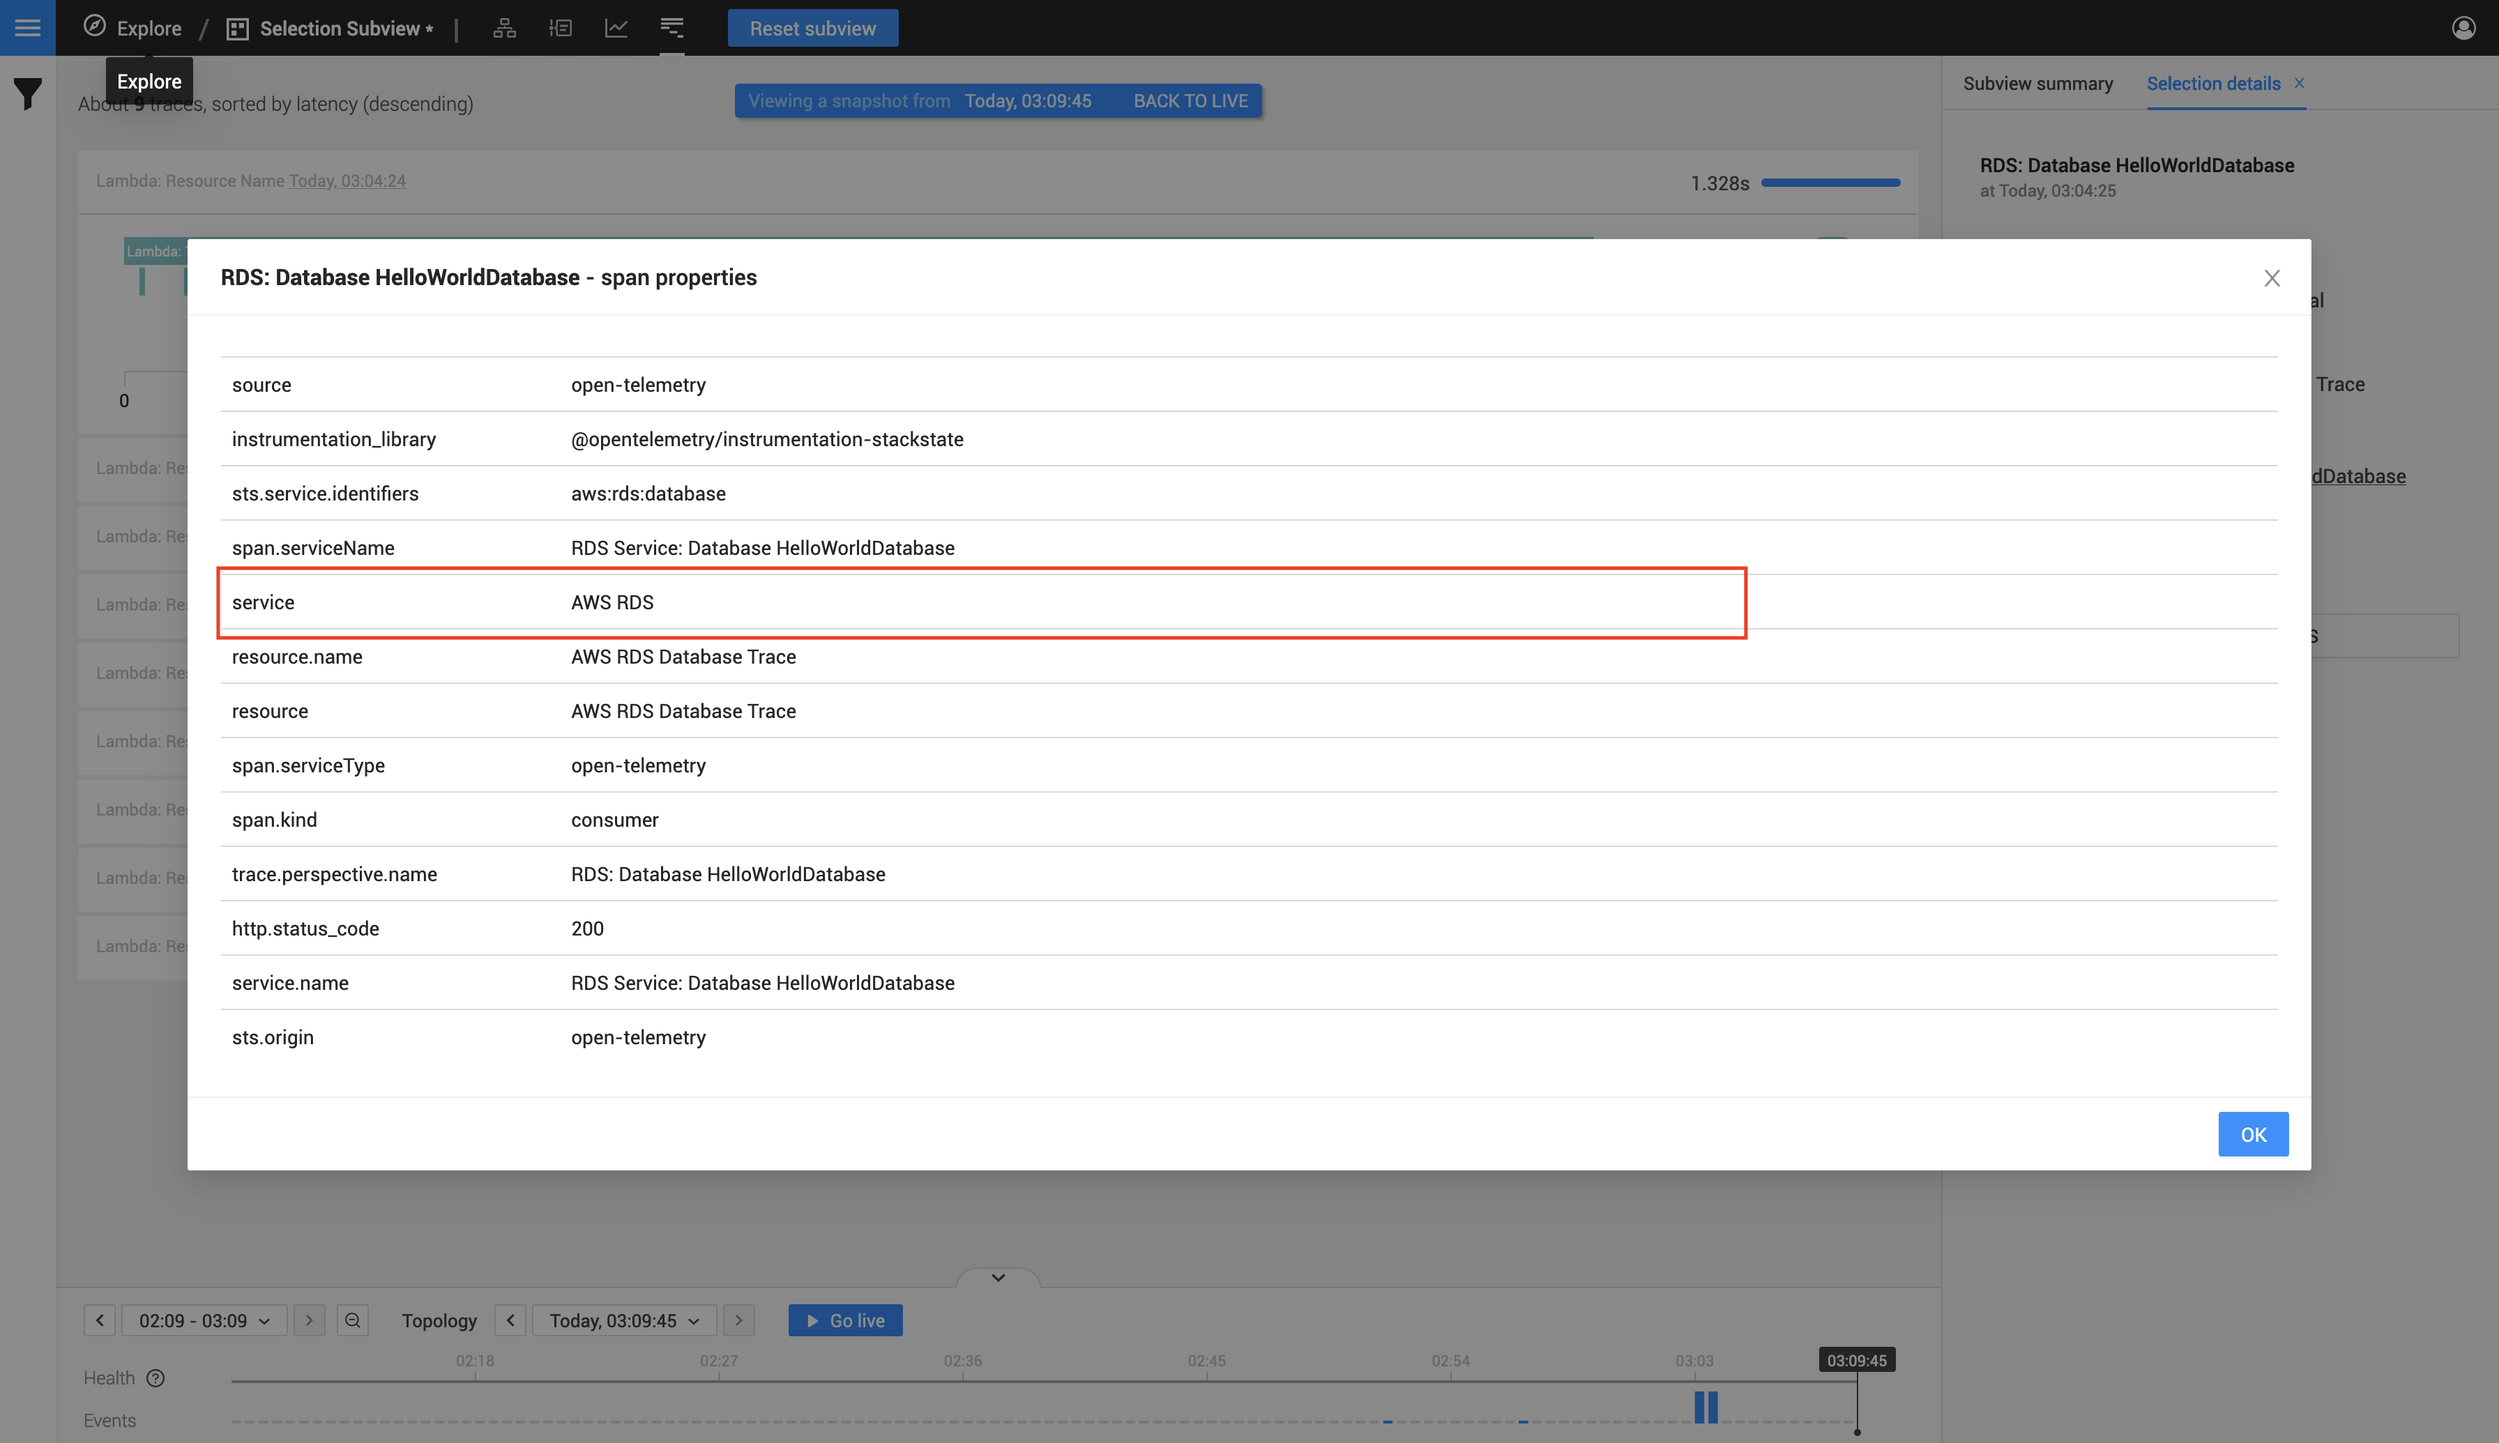
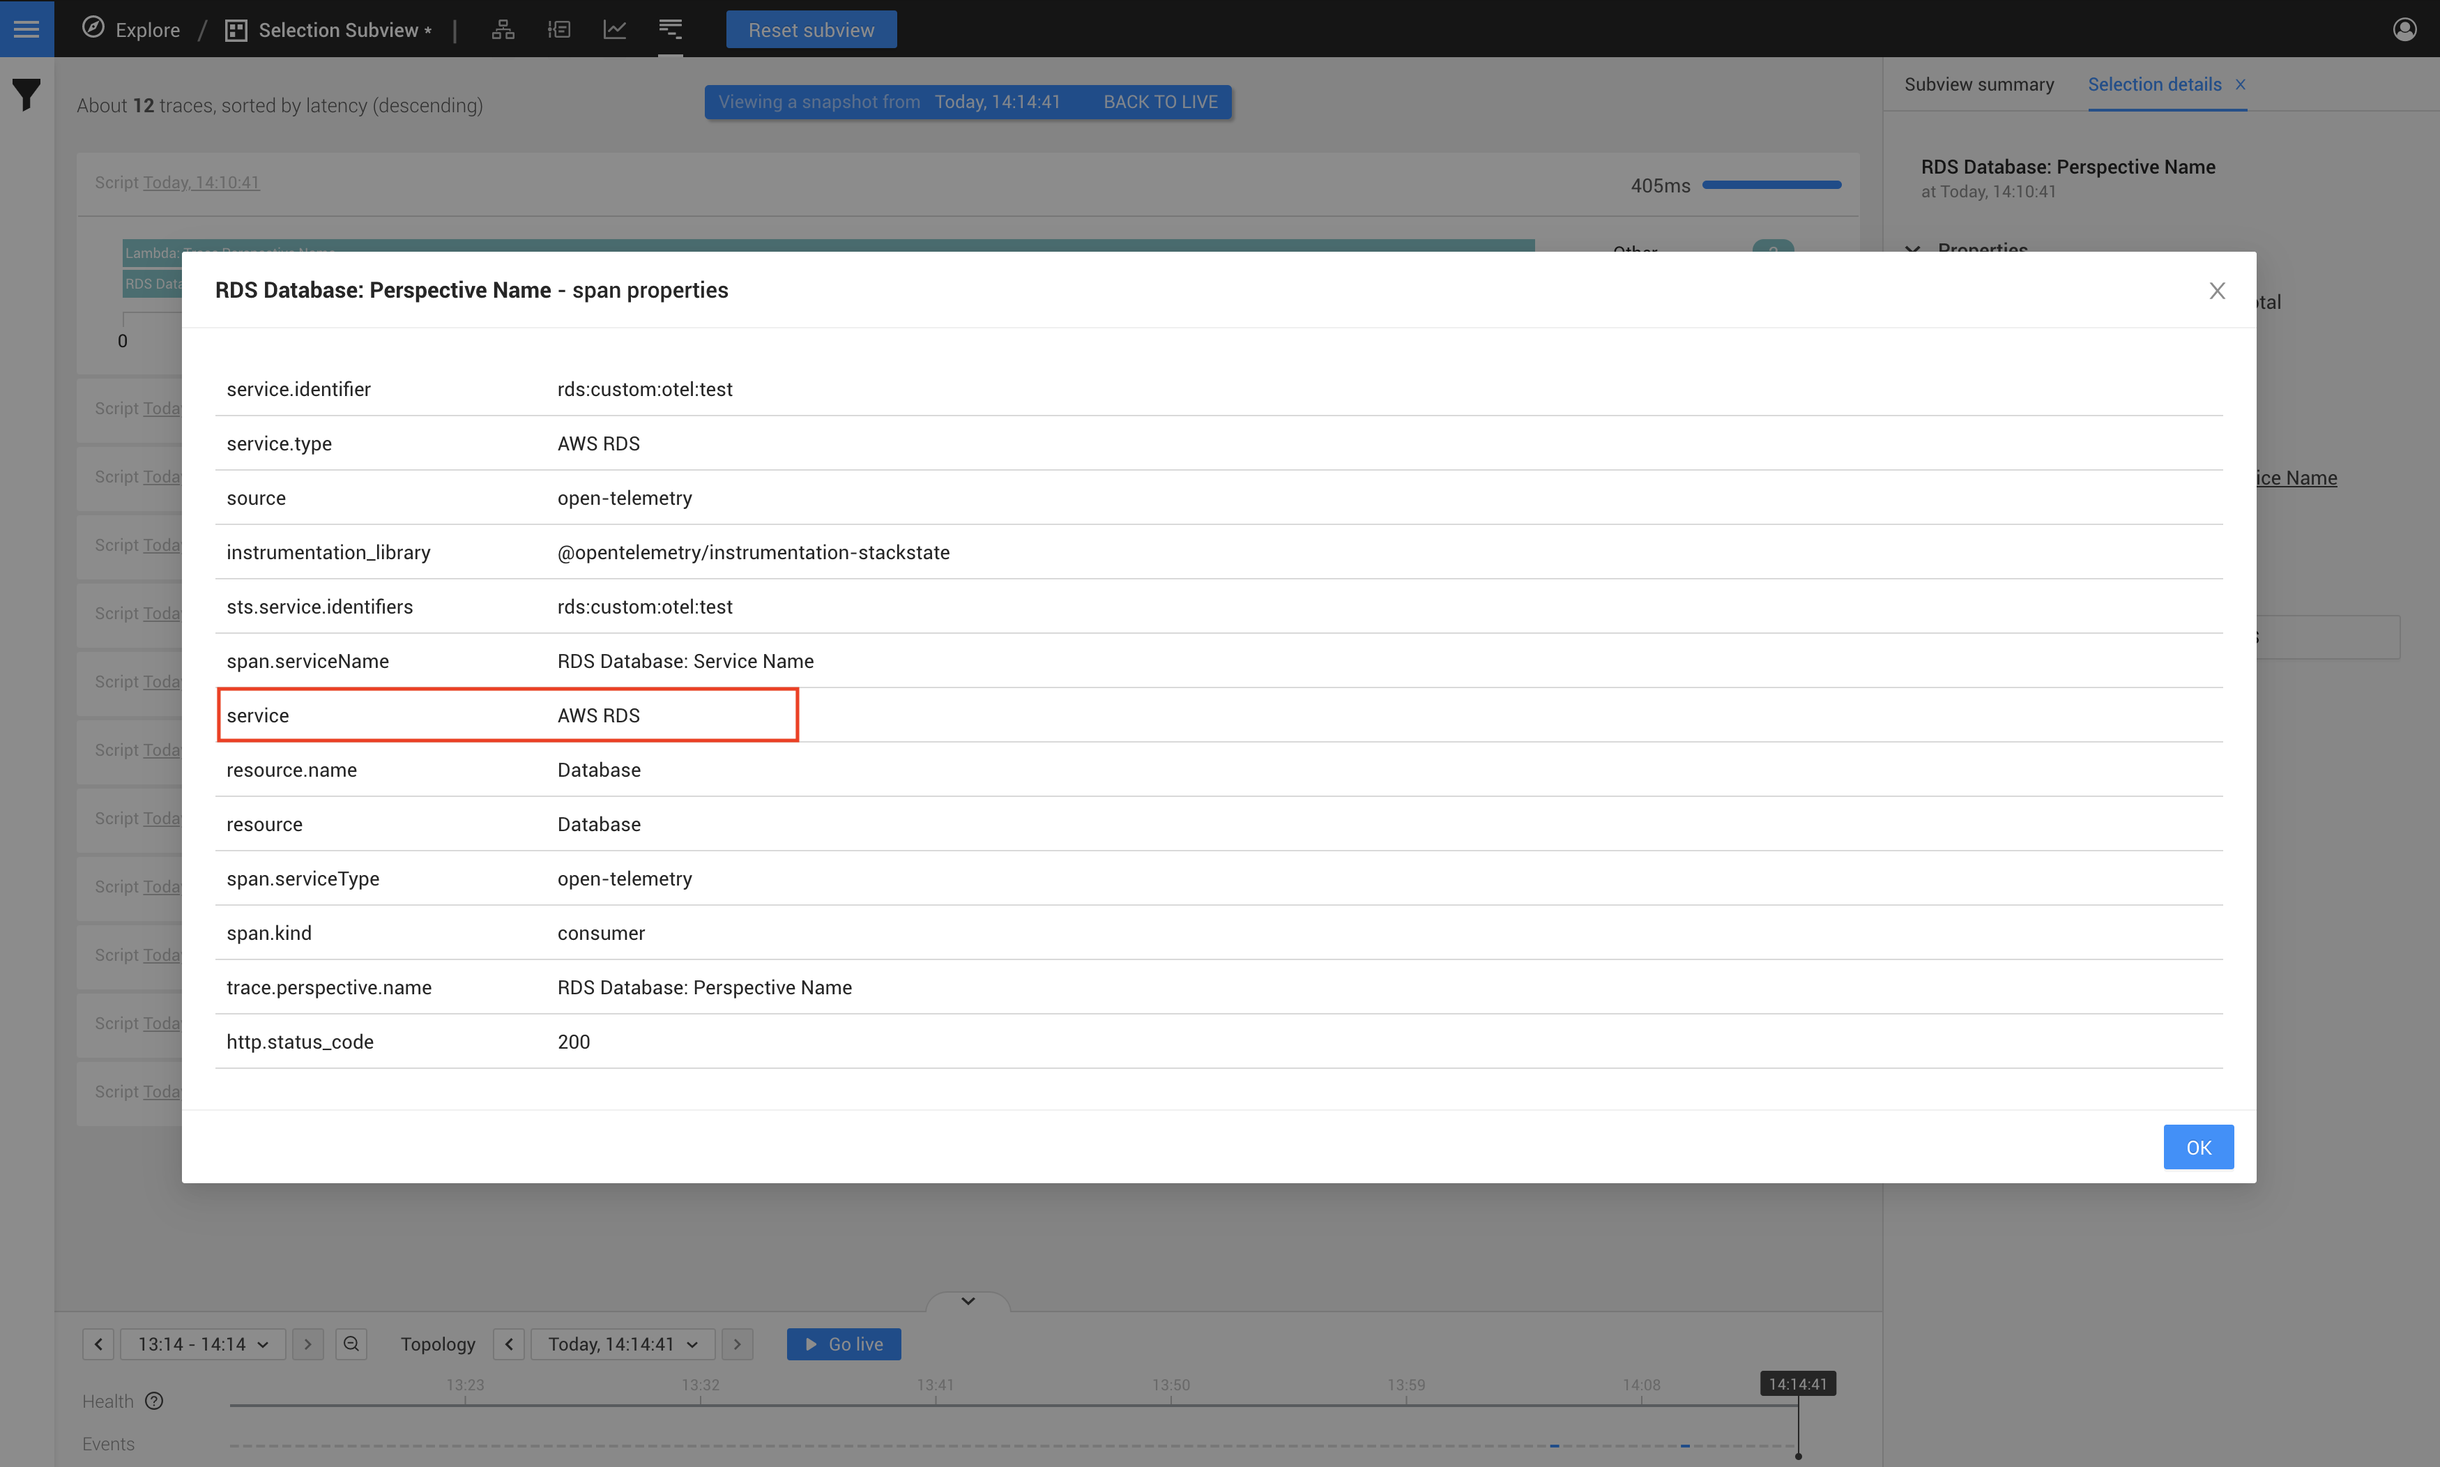
Mappings page update

diff --git a/configure/opentelemetry/manual-instrumentation/mappings.md b/configure/opentelemetry/manual-instrumentation/mappings.md
@@ -85,7 +85,7 @@ You need to include **ALL** the keys below when creating a span as they all need
 3) In the top input field you can fill in the following
    1) `name = "<YOUR service.name VALUE>"`
    2) For Example `name = "RDS Database: Service Name"`.
-4) This will then only show this new component.
+4) You will then see the component that was created with the trace.
 
 ![Topology Perspective - service.name](../../../.gitbook/assets/otel_topology_view_filter.png)
 
@@ -131,11 +131,11 @@ You need to include **ALL** the keys below when creating a span as they all need
   - `Key`
     - service.type
   - `Expected`
-    - This field can be any string value
+    - String
   - `Example`
     - AWS RDS
   - `Description`
-    - This will be the service displayed under your trace perspective for a specific trace.
+    - The `service.type` is used to identify the type of service within your span in the Trace Perspective view.
 
 {% tabs %}
 {% tab title="Trace Perspective - Span Properties" %}
@@ -155,7 +155,7 @@ You need to include **ALL** the keys below when creating a span as they all need
   - `Key`
     - service.identifier
   - `Expected`
-    - This field can be any string value
+    - String
   - `Example`
     - aws:rds:database:hello-world
   - `Description`
@@ -181,11 +181,12 @@ You need to include **ALL** the keys below when creating a span as they all need
 - `Key`
     - resource.name
 - `Expected`
-    - This field can be any string value
+    - String
 - `Example`
     - Database
 - `Description`
-    - This will be the resource.name will be displayed under your trace perspective for a specific trace.
+    - This resource name will be displayed under your trace perspective for a specific trace, allowing you to quickly identify what resource this trace is apart.
+    - Best practise would be to use this value to group similar resources, thus allowing you to easily identify a span.
 
 {% tabs %}
 {% tab title="Trace Perspective" %}
